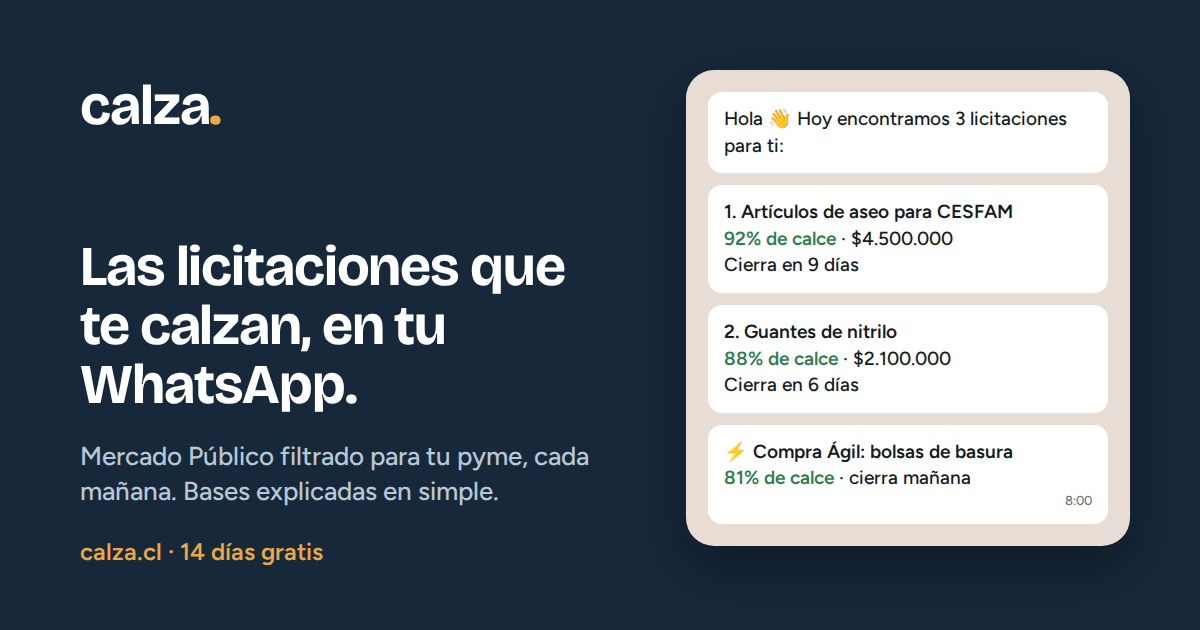
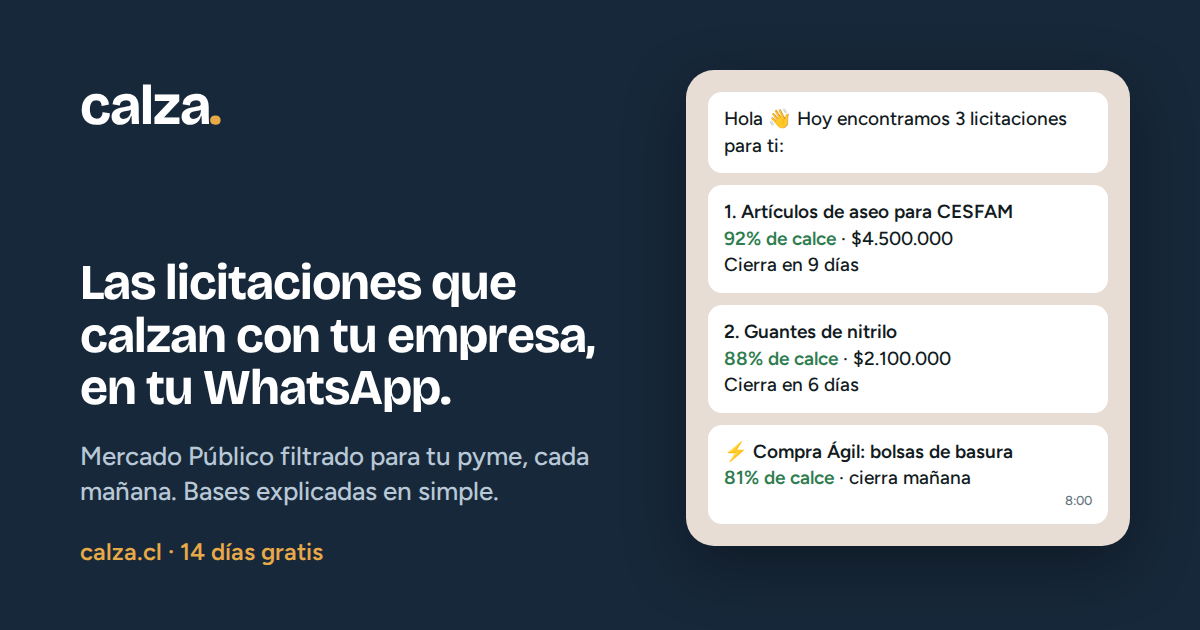
Sitio: titular "Las licitaciones que calzan con tu empresa" (portada, imagen para redes y plan Pyme)
Claude-Session: https://claude.ai/code/session_01XdM172K5k7vbpdGuKeBUUp

Changed region(s): [[0.0617, 0.3921, 0.4933, 0.6635]]

diff --git a/src/licita/plantillas/inicio.html b/src/licita/plantillas/inicio.html
@@ -16,7 +16,7 @@
 {% block contenido %}
 <section class="pila" style="max-width:760px;margin-bottom:40px">
   <span class="chip oro">Para pymes que le venden al Estado</span>
-  <h1>Las licitaciones que te calzan, cada mañana en tu WhatsApp.</h1>
+  <h1>Las licitaciones que calzan con tu empresa, cada mañana en tu WhatsApp.</h1>
   <p class="lead">Calza revisa Mercado Público por ti, te avisa solo lo que encaja con tu negocio y te explica las bases en palabras simples: qué piden, cuándo cierra y a qué precio se ha comprado antes.</p>
   <div class="chips" style="gap:12px;align-items:center"><a class="boton" href="/registro">Probar {{ dias_prueba }} días gratis</a><a href="#prueba">o pruébalo ahora sin registrarte ↓</a></div>
   <p class="ayuda">Sin tarjeta. Durante la prueba tienes todo lo del plan Pro.</p>

diff --git a/src/licita/plantillas/base.html b/src/licita/plantillas/base.html
@@ -17,7 +17,7 @@
 <meta property="og:image" content="{{ sitio }}/og.png">
 <meta property="og:image:width" content="1200">
 <meta property="og:image:height" content="630">
-<meta property="og:image:alt" content="Calza: las licitaciones que te calzan, cada mañana en tu WhatsApp">
+<meta property="og:image:alt" content="Calza: las licitaciones que calzan con tu empresa, cada mañana en tu WhatsApp">
 <meta name="twitter:card" content="summary_large_image">
 <meta name="theme-color" content="#1d5a7a">
 <link rel="icon" href="/favicon.svg" type="image/svg+xml">

diff --git a/src/licita/planes.py b/src/licita/planes.py
@@ -19,7 +19,7 @@ class Plan:
 
 PLANES = {
     "pyme": Plan("pyme", "Pyme", 19_990, (
-        "Resumen diario por WhatsApp con las licitaciones que te calzan",
+        "Resumen diario por WhatsApp con las licitaciones que calzan con tu empresa",
         "Detalle de cada licitación y puntaje de calce",
         "Análisis de bases en PDF o Word (hasta 15 al mes)",
     )),
